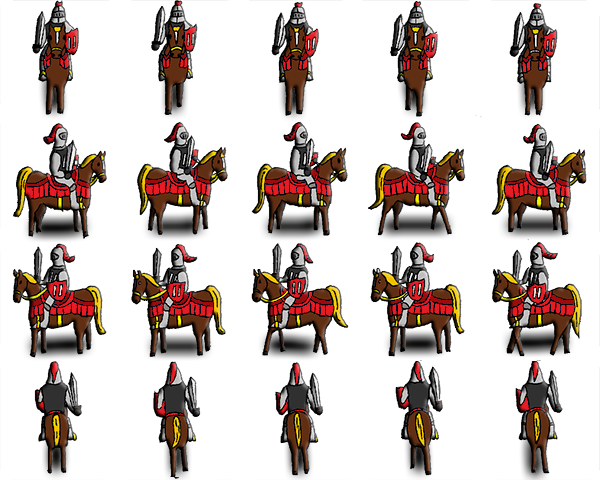
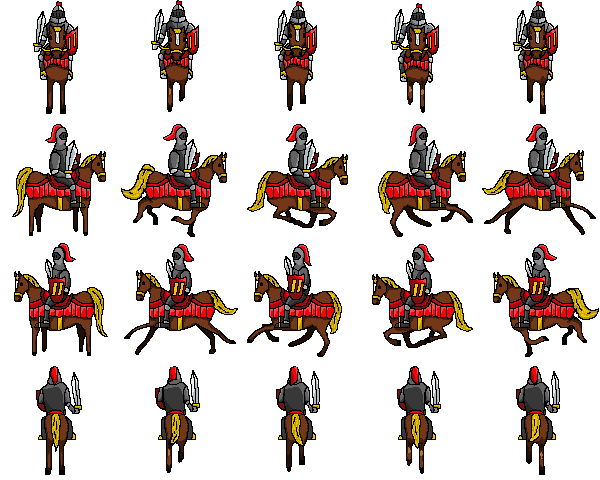
nouveaux dessins

Changed region(s): [[0.21, 0.0, 1.0, 1.0], [0.0, 0.0, 0.18, 1.0]]

diff --git a/src/main/Main.java b/src/main/Main.java
@@ -12,13 +12,13 @@ import model.Game;
 
 public class Main {
 	// A REGLER \\
-	public static float ratioSpace = 0.7f;
+	public static float ratioSpace = 0.9f;
 	public static int framerate = 30;
 	public static int nDelay=5;
 	///////\\\\\\\\\
 	
 	public static float increment = 0.1f*30/Main.framerate;
-	public static boolean pleinEcran = false;
+	public static boolean pleinEcran = true;
 	
 	public static void main(String[] args) {
 //		Log.setLogSystem(new NullLogSystem()); 

diff --git a/src/units/UnitSpearman.java b/src/units/UnitSpearman.java
@@ -37,7 +37,7 @@ public class UnitSpearman extends Character {
 		this.damage = 10f*data.damageFactor;
 		this.chargeTime = 4f;
 		this.weapon = "spear";
-		this.animStep = 32f;
+		this.animStep = 20f;
 		this.explosionWhenImmolate = data.explosionWhenImmolate;
 		this.civ = gameteam.civ;
 		this.sightBox = new Circle(0,0,this.sight);

diff --git a/src/units/Character.java b/src/units/Character.java
@@ -61,7 +61,7 @@ public class Character extends ActionObjet{
 	// General attributes
 	public Circle sightBox;
 
-	public float animStep = 4f;
+	public float animStep = 2f;
 	public float armor = 0f;	
 
 	public float maxVelocity = 100f;
